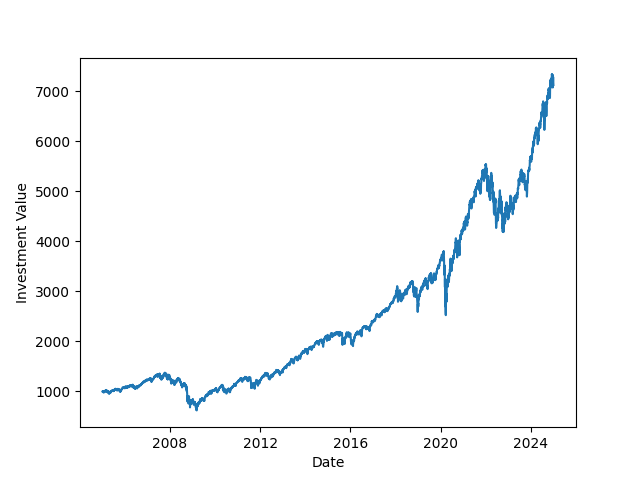
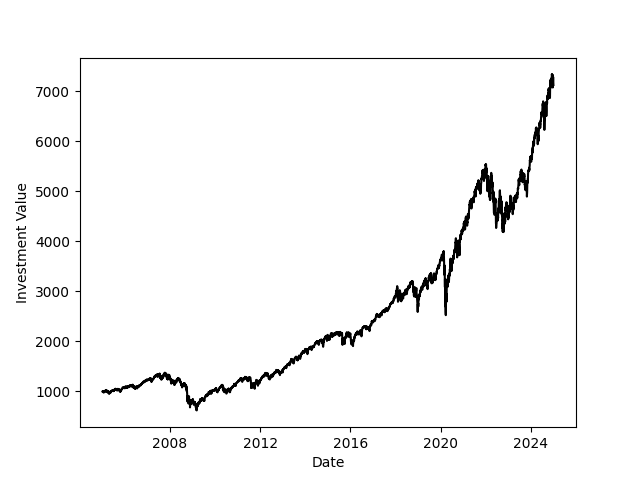
Updates

diff --git a/CH1_1.1_market_plot.py b/CH1_1.1_market_plot.py
@@ -14,7 +14,7 @@ data["Cummulative Return"] = data["Gross Return"].cumprod()
 
 data["Investment Value"] = 1000 * data["Cummulative Return"]
 
-sns.lineplot(data, x="Date", y="Investment Value")
+sns.lineplot(data, x="Date", y="Investment Value", color="black")
 
 plt.savefig("plots/CH1_1.1_market_plot.png")
 plt.show()
